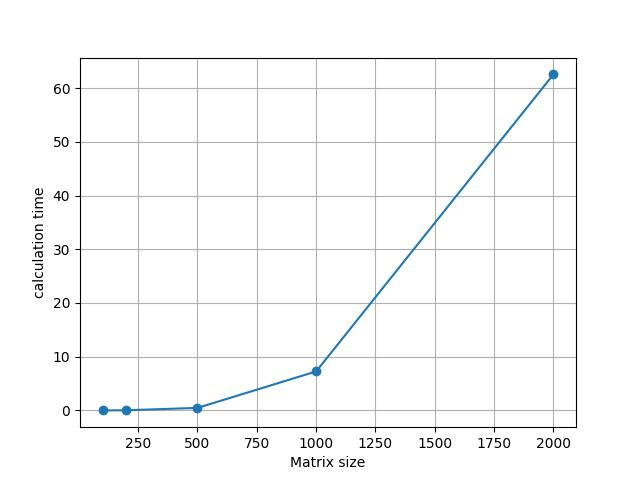
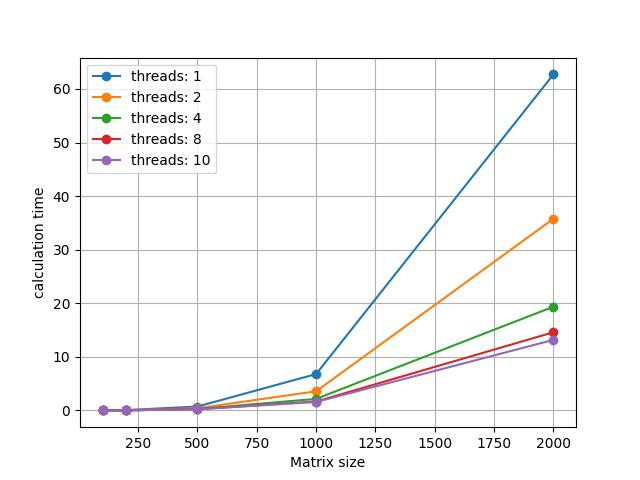
Lab 2 complete

diff --git a/Lab2/verification.py b/Lab2/verification.py
@@ -12,24 +12,24 @@ def read_matrix(size: int, file_name: str) -> list:
 
 
 #Нахождение среднего времени вычисления при разных размерах матриц
-def process_data(base_data: pd.DataFrame, sizes: list[int]) -> pd.DataFrame:
+def process_data(base_data: pd.DataFrame, sizes: list[int], threads: int) -> pd.DataFrame:
     data = []
     for size in sizes:
-        line = base_data[base_data["size"]==size].mean()
-        if line["total operations"] < 0:
-            line["total operations"] = None
+        line = base_data[(base_data["size"]==size) & (base_data["threads"]==threads)].mean()
         data.append(line)
     return pd.DataFrame(data)
 
 
 #Отображение обработанных данных на графике, сохранение графика
-def display_graph(data: pd.DataFrame, col: str, save_path: str) -> None:
-    plt.plot(data["size"], data[col], marker="o")
+def display_graph(data_list: list[pd.DataFrame], save_path: str) -> None:
+    for data in data_list:
+      plt.plot(data["size"], data["calculation time"], label="threads: " + str(int(data["threads"][0])), marker="o")
     plt.grid(True)
     plt.xlabel("Matrix size")
-    plt.ylabel(col)
+    plt.ylabel("calculation time")
+    plt.legend()
     plt.savefig(save_path)
-    #plt.show()
+    plt.show()
     plt.clf()
     return
 
@@ -49,11 +49,13 @@ def main() -> None:
             print("Size ", size, ": smth aint right")
 
         #Обработка данных после перемножения матриц
+        threads = [1, 2, 4, 8, 10]
         data = pd.read_csv("data.csv")
-        processed_data = process_data(data, sizes)
-        print(processed_data)
-        display_graph(processed_data, "total operations", "operations_graph.jpg")
-        display_graph(processed_data, "calculation time", "time_graph.jpg")
+        processed_data = []
+        for threads_num in threads:
+            processed_data.append(process_data(data, sizes, threads_num))
+        #print(processed_data)
+        display_graph(processed_data, "time_graph.jpg")
     except Exception as exc:
       print(f"Возникла ошибка: {exc}")
 

diff --git a/Lab2/functions.h b/Lab2/functions.h
@@ -1,6 +1,7 @@
 #ifndef MY_FUNCTIONS_H
 #define MY_FUNCTIONS_H
 
+#include <omp.h>
 #include <iostream>
 #include <random>
 #include <ctime>
@@ -75,27 +76,27 @@ Matrix read_matrix(std::filesystem::path file_name, size_t size)
   времени вычисления
   числа операций
 */
-Matrix multiply(const Matrix& lhs, const Matrix& rhs)
+Matrix multiply(const Matrix& lhs, const Matrix& rhs, int threads)
 {
   if (lhs.size() != rhs.size()) { throw "Matrix sizes dont match"; }
 
-  int operations = 0;
   std::clock_t start = clock();
+  omp_set_num_threads(threads);
 
   Matrix result(lhs.size());
-  for (int i = 0; i < result.size();i++)
+  int i, j, k = 0;
+
+#pragma omp parallel for collapse(3) shared(lhs, rhs, result) private(i, j, k)
+  for (i = 0; i < result.size(); i++)
   {
-    for (int j = 0; j < result.size();j++)
+    for (j = 0; j < result.size(); j++)
     {
-      int temp = 0;
-      for (int k = 0;k < result.size();k++)
+      for (k = 0; k < result.size(); k++)
       {
-        temp += lhs(i, k) * rhs(k, j);
-        operations++;
+        result(i, j) += lhs(i, k) * rhs(k, j);
       }
-      result(i, j) = temp;
     }
-  }
+  } 
 
   double duration = double(clock() - start) / CLOCKS_PER_SEC;
 
@@ -103,9 +104,9 @@ Matrix multiply(const Matrix& lhs, const Matrix& rhs)
   std::fstream file(directorypath / "data.csv", std::ios::app);
   if (std::filesystem::is_empty(directorypath/"data.csv"))
   {
-    file << "size," << "calculation time," << "total operations\n";
+    file << "size," << "threads," << "calculation time\n";
   }
-  file << result.size() << ", " << duration << ", " << operations << "\n";
+  file << result.size() << ", " << threads << ", " << duration << "\n";
   return result;
 }
 

diff --git a/Lab2/main.cpp b/Lab2/main.cpp
@@ -1,0 +1,38 @@
+#include <iostream>
+#include "functions.h"
+#include "Matrix.h"
+
+
+using namespace std;
+using namespace std::filesystem;
+
+int main() {
+
+  setup_io();
+
+  try
+  {
+    int threads[5] = { 1, 2, 4, 8, 10 };
+    int sizes[5] = { 100, 200, 500, 1000, 2000 };
+    for (auto threads_num : threads)
+    {
+      for (auto size : sizes)
+      {
+        path directorypath = "../../../matrix_size_" + to_string(size);
+        Matrix a = read_matrix("matrix_A.txt", size);
+        Matrix b = read_matrix("matrix_b.txt", size);
+        Matrix c = multiply(a, b, threads_num);
+        save_matrix("result.txt", c);
+        for (int i = 1; i < 5; i++)
+        {
+          multiply(a, b, threads_num); //Многократное повторение вычислений для получения более точного *среднего* времени вычисления
+        }
+      }
+    }
+  }
+  catch (const char* e)
+  {
+    cerr << e;
+  }
+  return 0;
+}

diff --git a/Lab2/README.md b/Lab2/README.md
@@ -5,15 +5,17 @@
 гр. 6212
 
 ## Задание
-- Написать программу на языке C++
-для перемножения двух квадратных матриц
+- Модифицировать программу из л/р №1 для параллельной работы по технологии OpenMP
 - Проверить корректность вычислений
-- Исследовать программу при разных размерах матриц
+- Исследовать программу при разных размерах матриц, количестве потоков
 
 ## Результаты
-При перемножении матриц размерами 100, 200, 500, 100
-и 2000, было выявлено, что зависимости времени и
-числа оперций операций от размера матриц - кубические:
-![](operations_graph.jpg)
+Параллельная работа программы позволила сильно ускорить процесс вычисления.
+Однако увеличение скорости было заметно только при больших размерах матриц (1000, 2000),
+и с увеличением числа потоков эффект постепенно спадал:
+- Разница между вычислением с одним потоком (без параллельной работы) и с двумя - примерно 44%
+  (от 62 с. до 35 с. при размере матриц 2000)
+- между вычислением с 2 потоками и с 4 - примерно 45% (от 35 с. до 19 с. при размере матриц 2000)
+- между вычислением с 4 потоками и с 8 - примерно 26% (от 19 с. до 14 с. при размере матриц 2000)
+
 ![](time_graph.jpg)
-Это объясняется сложностью алгоритма O(N^3)
